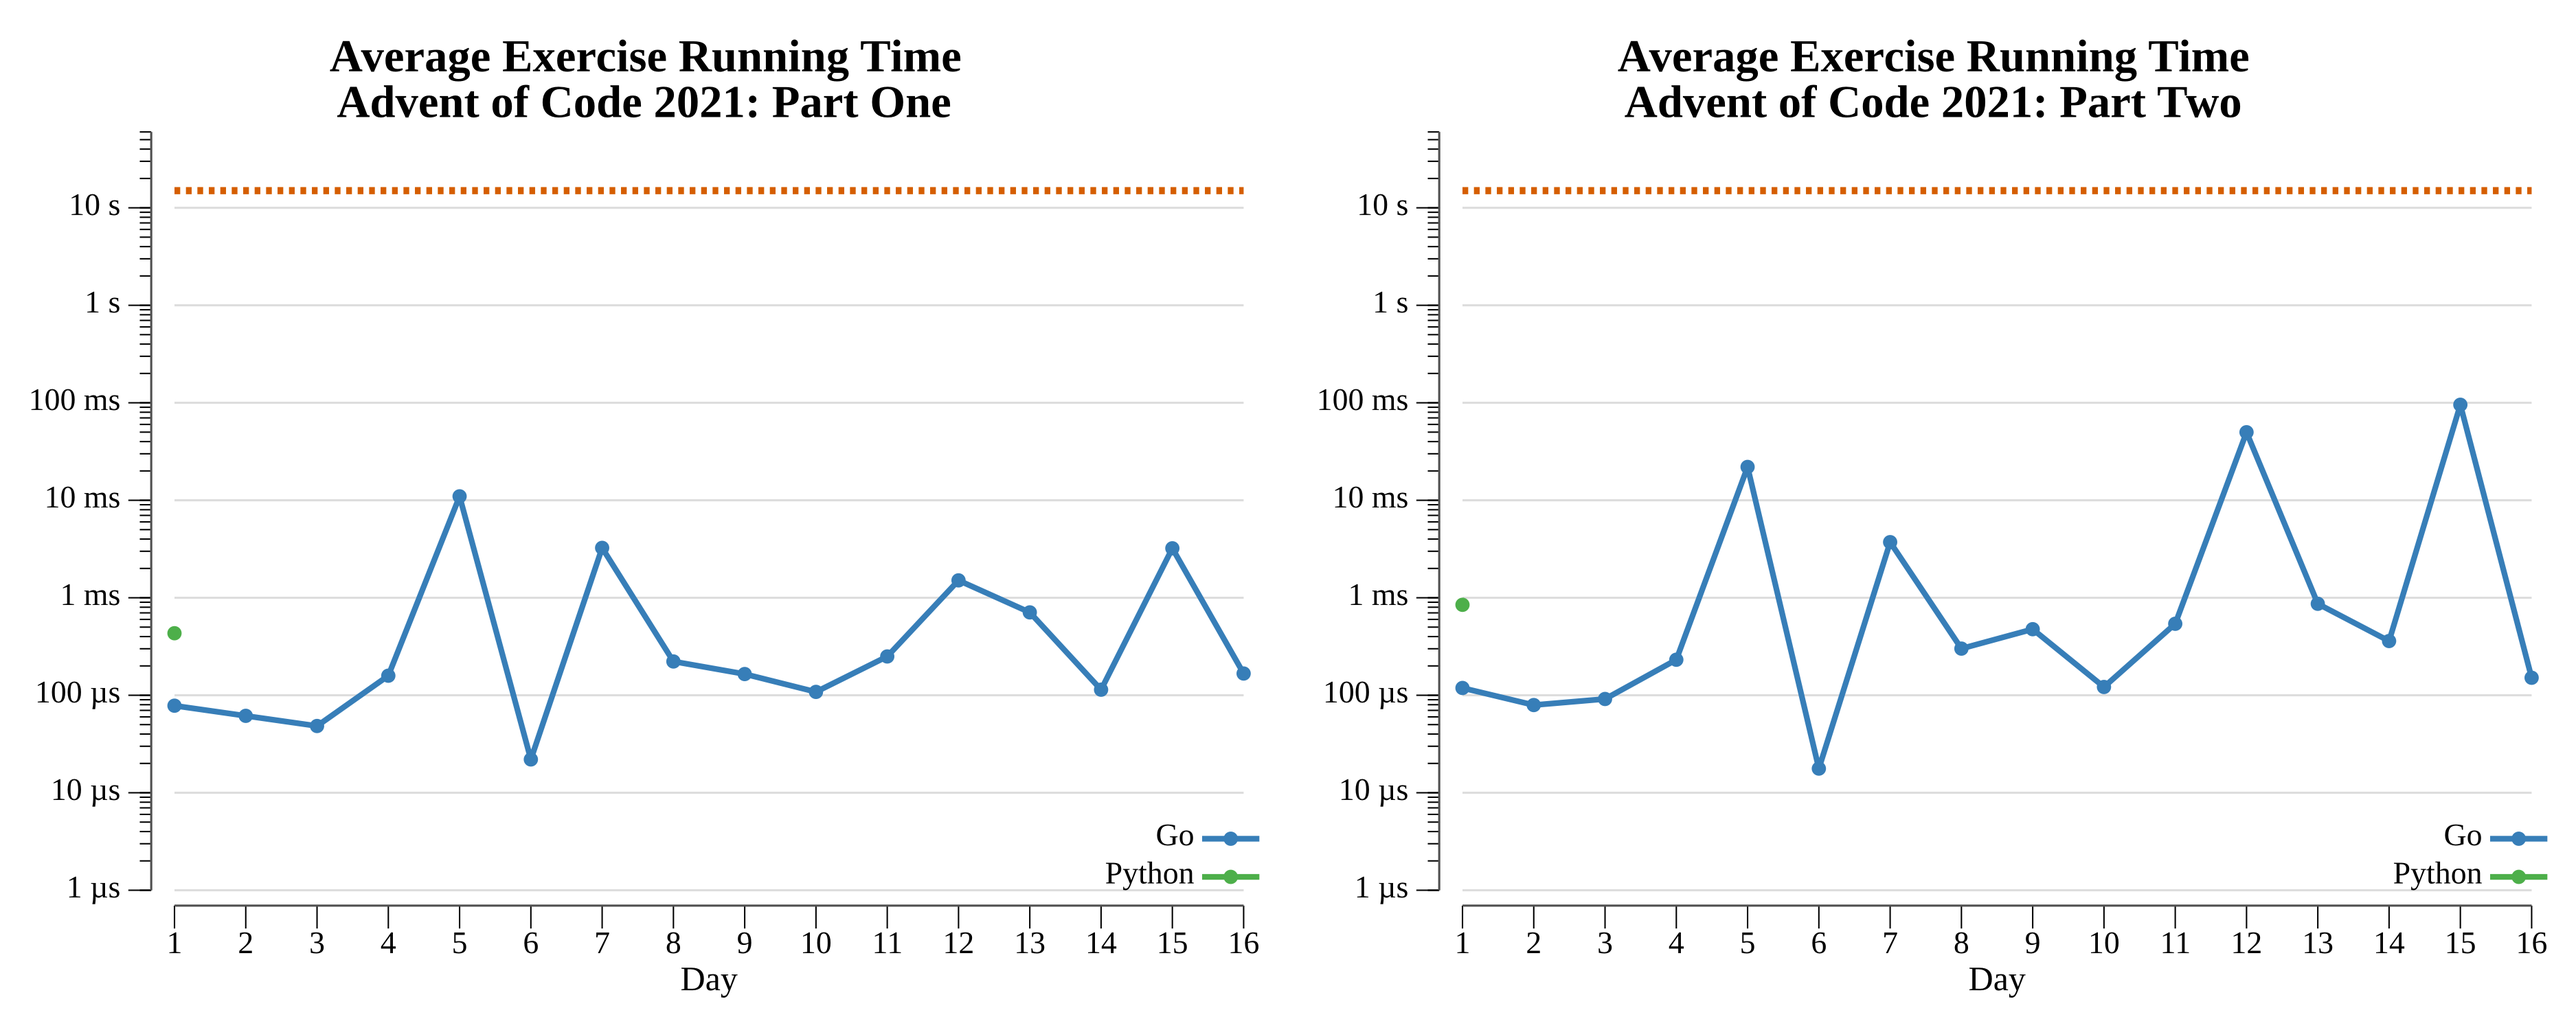
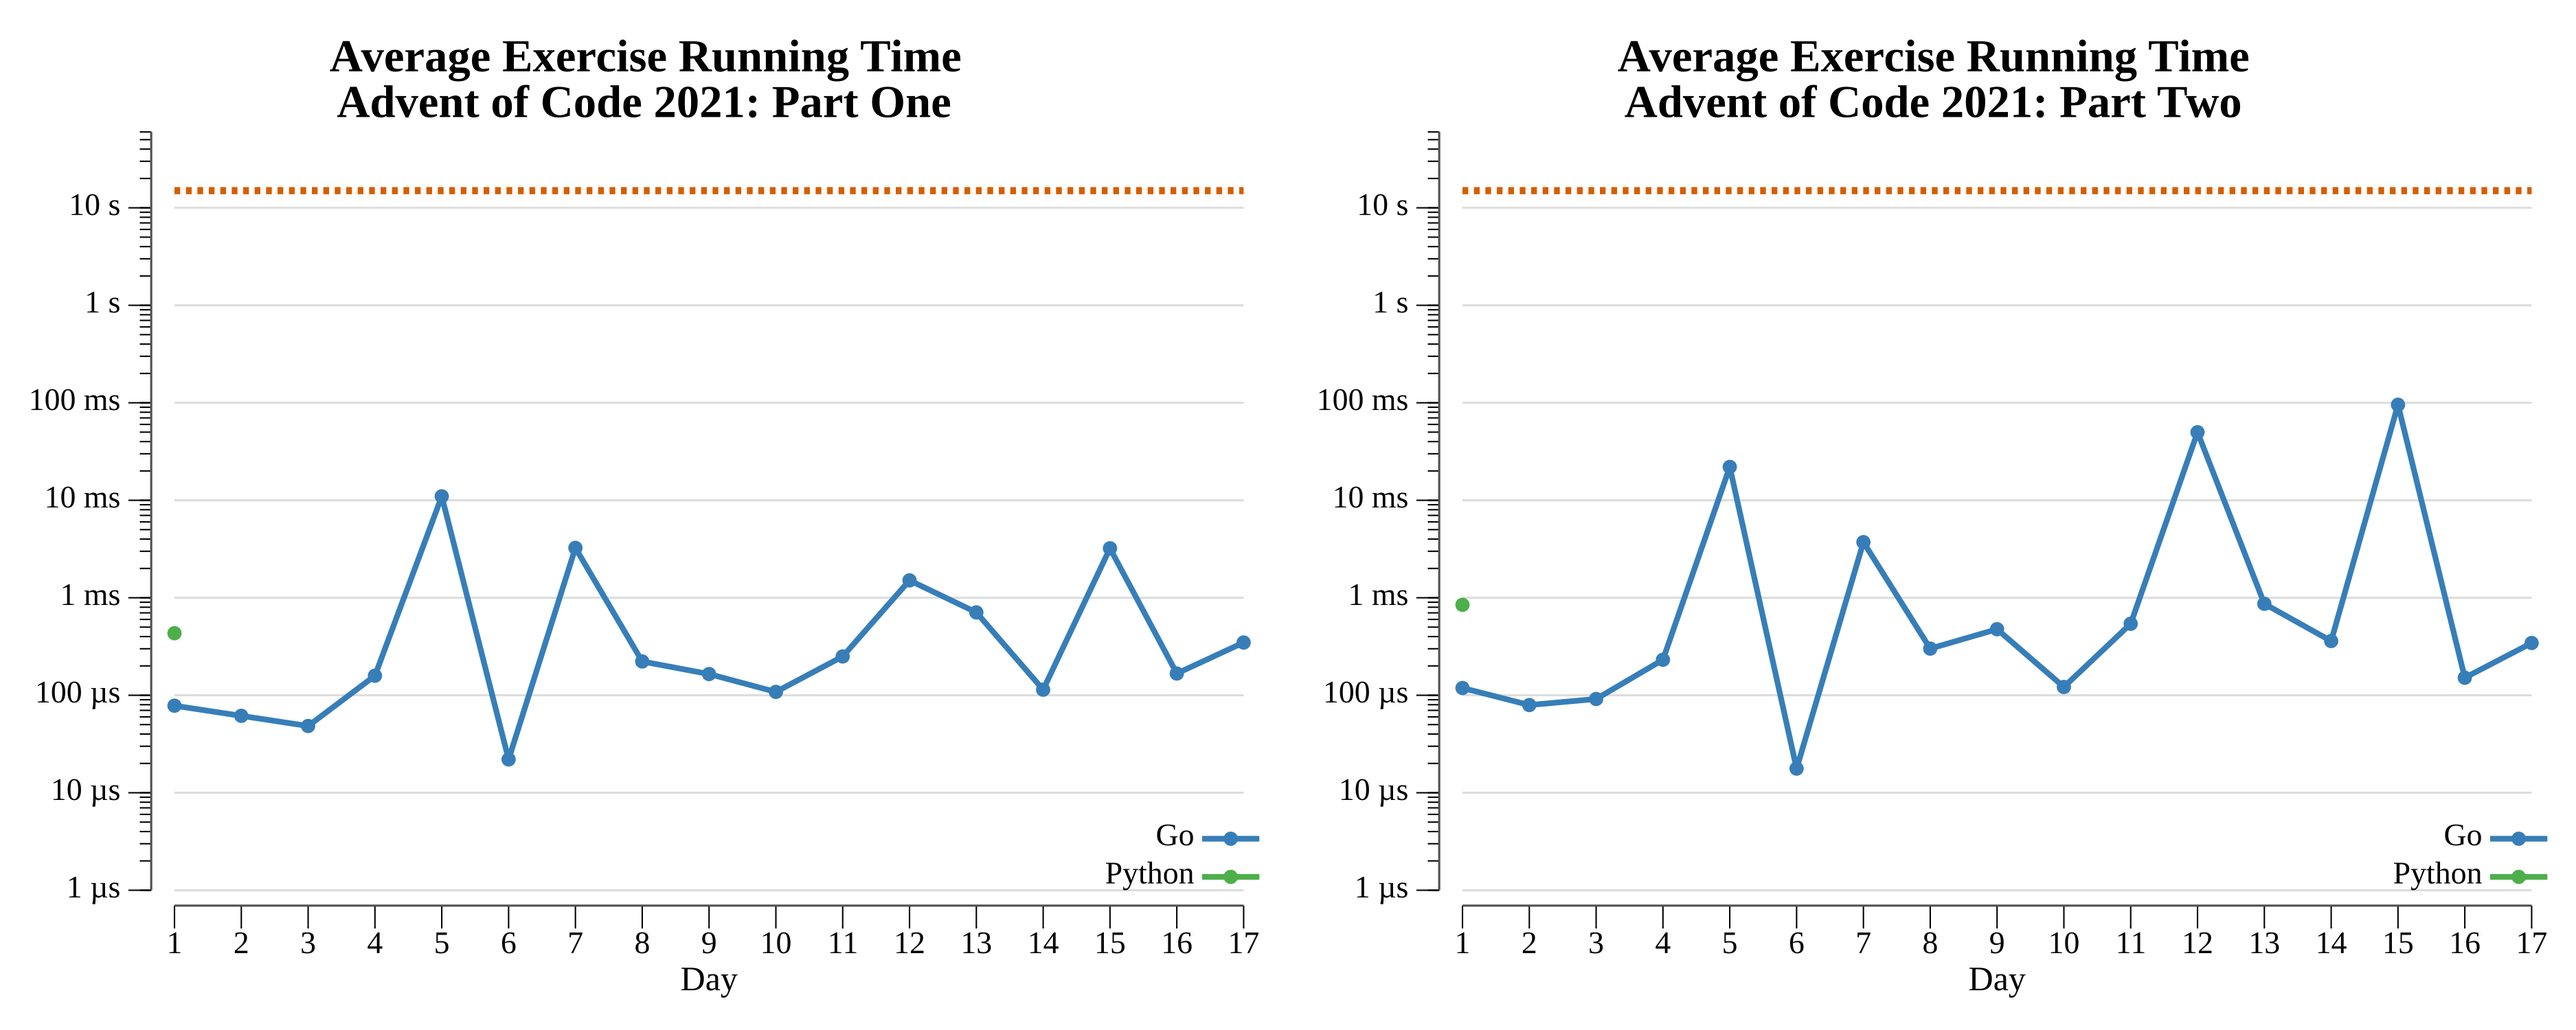
2021 day 17

diff --git a/exercises/2021/17-trickShot/go/vis.go b/exercises/2021/17-trickShot/go/vis.go
@@ -1,0 +1,149 @@
+package exercises
+
+import (
+	"fmt"
+	"os"
+	"path/filepath"
+	"strings"
+)
+
+// Vis plots the probe trajectories as an SVG. Every launch velocity that lands in
+// the target is drawn as a faint arc, so the envelope of all 1566 winning shots
+// (part two) is visible; the single arc reaching the greatest height (part one)
+// is highlighted, and the target area is a labeled box. y is flipped so "up" is
+// up. The highlight and target read by position and brightness, so the plot works
+// in grayscale.
+func (e Exercise) Vis(instr, outdir string) error {
+	t, err := parse(instr)
+	if err != nil {
+		return err
+	}
+
+	type shot struct {
+		path [][2]int
+		peak int
+	}
+	var winners []shot
+	best := shot{peak: -1 << 30}
+
+	for vx := 1; vx <= t.xMax; vx++ {
+		for vy := t.yMin; vy <= -t.yMin; vy++ {
+			path, peak, hit := trace(vx, vy, t)
+			if !hit {
+				continue
+			}
+			s := shot{path, peak}
+			winners = append(winners, s)
+			if peak > best.peak {
+				best = s
+			}
+		}
+	}
+
+	// World bounds: from launch (0,0) out past the target, up to the best peak.
+	minX, maxX := 0, t.xMax
+	minY, maxY := t.yMin, best.peak
+	worldW := float64(maxX - minX)
+	worldH := float64(maxY - minY)
+
+	const (
+		W     = 1000
+		H     = 620
+		mLeft = 50
+		mTop  = 40
+		mBot  = 40
+		mRt   = 20
+	)
+	plotW := float64(W - mLeft - mRt)
+	plotH := float64(H - mTop - mBot)
+	// Independent x/y scales: the peak height dwarfs the target distance, so a
+	// uniform scale would squeeze everything into a sliver. Non-uniform scaling
+	// fills the canvas; the shape of the arcs is still faithful, only stretched.
+	scaleX := plotW / worldW
+	scaleY := plotH / worldH
+	sx := func(x int) float64 { return mLeft + (float64(x)-float64(minX))*scaleX }
+	sy := func(y int) float64 { return mTop + (float64(maxY)-float64(y))*scaleY }
+
+	var sb strings.Builder
+	fmt.Fprintf(&sb, `<svg xmlns="http://www.w3.org/2000/svg" width="%d" height="%d" viewBox="0 0 %d %d" font-family="monospace">`, W, H, W, H)
+	fmt.Fprintf(&sb, `<rect width="%d" height="%d" fill="#111418"/>`, W, H)
+	fmt.Fprintf(&sb, `<text x="%d" y="26" fill="#e8ecf4" font-size="15" text-anchor="middle">Probe trajectories that hit the target (%d of them); highest arc highlighted</text>`, W/2, len(winners))
+
+	// Target box.
+	tx0, ty0 := sx(t.xMin), sy(t.yMax)
+	tw := float64(t.xMax-t.xMin+1) * scaleX
+	th := float64(t.yMax-t.yMin+1) * scaleY
+	fmt.Fprintf(&sb, `<rect x="%.1f" y="%.1f" width="%.1f" height="%.1f" fill="#009E73" fill-opacity="0.25" stroke="#009E73" stroke-width="1.5"/>`, tx0, ty0, tw, th)
+	fmt.Fprintf(&sb, `<text x="%.1f" y="%.1f" fill="#3fe0b0" font-size="12" text-anchor="middle">target</text>`, tx0+tw/2, ty0+th+16)
+
+	// Zero line (launch height) for reference.
+	fmt.Fprintf(&sb, `<line x1="%.1f" y1="%.1f" x2="%d" y2="%.1f" stroke="#2a2f3a" stroke-dasharray="3 3"/>`, sx(minX), sy(0), W-mRt, sy(0))
+
+	// Faint winning arcs.
+	fmt.Fprint(&sb, `<g fill="none" stroke="#56B4E9" stroke-opacity="0.12" stroke-width="1">`)
+	for _, s := range winners {
+		fmt.Fprintf(&sb, `<polyline points="%s"/>`, polyPoints(s.path, sx, sy))
+	}
+	fmt.Fprint(&sb, `</g>`)
+
+	// Highlighted highest arc.
+	fmt.Fprintf(&sb, `<polyline points="%s" fill="none" stroke="#E69F00" stroke-width="2.5"/>`, polyPoints(best.path, sx, sy))
+	// Peak marker.
+	px, py := sx(best.path[peakIndex(best.path)][0]), sy(best.peak)
+	fmt.Fprintf(&sb, `<circle cx="%.1f" cy="%.1f" r="4" fill="#E69F00"/>`, px, py)
+	fmt.Fprintf(&sb, `<text x="%.1f" y="%.1f" fill="#E69F00" font-size="13" text-anchor="middle">peak y = %d</text>`, px, py-10, best.peak)
+
+	// Launch point.
+	fmt.Fprintf(&sb, `<circle cx="%.1f" cy="%.1f" r="4" fill="#D55E00"/>`, sx(0), sy(0))
+	fmt.Fprintf(&sb, `<text x="%.1f" y="%.1f" fill="#D55E00" font-size="12">launch</text>`, sx(0)+8, sy(0)-6)
+
+	sb.WriteString(`</svg>`)
+
+	return os.WriteFile(filepath.Join(outdir, "trick-shot.svg"), []byte(sb.String()), 0o600)
+}
+
+// trace simulates a shot and returns its full path, peak height, and hit status.
+func trace(vx, vy int, t target) (path [][2]int, peak int, hit bool) {
+	x, y := 0, 0
+	path = append(path, [2]int{0, 0})
+	peak = 0
+	for {
+		x += vx
+		y += vy
+		if vx > 0 {
+			vx--
+		} else if vx < 0 {
+			vx++
+		}
+		vy--
+		if y > peak {
+			peak = y
+		}
+		path = append(path, [2]int{x, y})
+
+		if x >= t.xMin && x <= t.xMax && y >= t.yMin && y <= t.yMax {
+			return path, peak, true
+		}
+		if x > t.xMax || y < t.yMin {
+			return path, peak, false
+		}
+	}
+}
+
+func polyPoints(path [][2]int, sx, sy func(int) float64) string {
+	var b strings.Builder
+	for _, p := range path {
+		fmt.Fprintf(&b, "%.1f,%.1f ", sx(p[0]), sy(p[1]))
+	}
+	return strings.TrimSpace(b.String())
+}
+
+func peakIndex(path [][2]int) int {
+	best, bi := path[0][1], 0
+	for i, p := range path {
+		if p[1] > best {
+			best, bi = p[1], i
+		}
+	}
+	return bi
+}

diff --git a/exercises/2021/17-trickShot/go/exercise.go b/exercises/2021/17-trickShot/go/exercise.go
@@ -1,0 +1,99 @@
+package exercises
+
+import (
+	"fmt"
+	"strings"
+
+	"github.com/asphaltbuffet/advent-of-code/internal/common"
+)
+
+// Exercise for Advent of Code 2021 day 17.
+type Exercise struct {
+	common.BaseExercise
+}
+
+type target struct {
+	xMin, xMax, yMin, yMax int
+}
+
+func parse(instr string) (target, error) {
+	var t target
+	_, err := fmt.Sscanf(strings.TrimSpace(instr), "target area: x=%d..%d, y=%d..%d",
+		&t.xMin, &t.xMax, &t.yMin, &t.yMax)
+	if err != nil {
+		return t, fmt.Errorf("parsing target %q: %w", instr, err)
+	}
+	return t, nil
+}
+
+// launch simulates one shot and returns the peak height and whether it hit the
+// target. Drag pulls vx toward zero each step; gravity subtracts one from vy.
+func launch(vx, vy int, t target) (peak int, hit bool) {
+	x, y := 0, 0
+	peak = 0
+	for {
+		x += vx
+		y += vy
+		if vx > 0 {
+			vx--
+		} else if vx < 0 {
+			vx++
+		}
+		vy--
+
+		if y > peak {
+			peak = y
+		}
+
+		if x >= t.xMin && x <= t.xMax && y >= t.yMin && y <= t.yMax {
+			return peak, true
+		}
+
+		// Past the target with no way back: overshot x, or falling below it.
+		if x > t.xMax || y < t.yMin {
+			return peak, false
+		}
+	}
+}
+
+// search sweeps the bounded velocity space and returns the best peak height and
+// the number of velocities that hit. vx ranges 1..xMax (positive targets here);
+// vy ranges yMin..-yMin (above -yMin overshoots below on the way down).
+func search(t target) (bestPeak, hits int) {
+	for vx := 1; vx <= t.xMax; vx++ {
+		for vy := t.yMin; vy <= -t.yMin; vy++ {
+			peak, hit := launch(vx, vy, t)
+			if hit {
+				hits++
+				if peak > bestPeak {
+					bestPeak = peak
+				}
+			}
+		}
+	}
+	return bestPeak, hits
+}
+
+// One returns the answer to the first part of the exercise.
+func (e Exercise) One(instr string) (any, error) {
+	t, err := parse(instr)
+	if err != nil {
+		return nil, err
+	}
+
+	best, _ := search(t)
+
+	return fmt.Sprintf("%d", best), nil
+}
+
+// Two returns the answer to the second part of the exercise.
+func (e Exercise) Two(instr string) (any, error) {
+	t, err := parse(instr)
+	if err != nil {
+		return nil, err
+	}
+
+	_, hits := search(t)
+
+	return fmt.Sprintf("%d", hits), nil
+}

diff --git a/exercises/2021/17-trickShot/README.md b/exercises/2021/17-trickShot/README.md
@@ -1,0 +1,47 @@
+# [Day 17: Trick Shot](https://adventofcode.com/2021/day/17)
+
+<!-- These are helper text to make formatting the yearly readme consistent and easier...
+
+[Day 17: Trick Shot][rm17]
+[Go][go17]
+
+[rm17]: 17-trickShot/README.md
+[go17]: 17-trickShot/go
+
+-->
+
+## Notes
+
+Simulate a bounded set of launch velocities. `vx` runs from 1 to the target's far
+x edge (any faster overshoots on the first step); `vy` runs from the target's
+bottom up to `-yMin` (above that, symmetry means the probe returns to y=0 already
+moving too fast to stay in the target). Each shot is stepped with drag on `vx` and
+gravity on `vy` until it lands or passes the target. Part One reports the highest
+peak among hits; Part Two counts the distinct hitting velocities.
+
+## Go
+
+```text
+────────────────────────────────────────
+─       2021 Day 17: Trick Shot        ─
+────────────────────────────────────────
+
+Solving (Go)…
+1.0:  PASS           365.338µs
+2.0:  PASS           325.244µs
+```
+
+## Visualization
+
+Every launch velocity that lands in the target drawn as a faint arc (SVG), so the
+envelope of all winning shots fans out from the launch point to the target box;
+the single arc reaching the greatest height (Part One) is highlighted and its peak
+labeled. Because the peak height dwarfs the target distance, the axes are scaled
+independently to fill the canvas. The highlight reads by brightness, so it stays
+distinct in grayscale.
+
+![Trick Shot trajectories](trick-shot.svg)
+
+## Run Times
+
+![Day 17 run-time graphs](run-times.png)

diff --git a/exercises/2021/README.md b/exercises/2021/README.md
@@ -22,7 +22,7 @@
 | [Day 14: Extended Polymerization](14-extendedPolymerization/README.md) |  ★ ★  | [Go](14-extendedPolymerization/go)                 |
 | [Day 15: Chiton](15-chiton/README.md)         |  ★ ★  | [Go](15-chiton/go)                                 |
 | [Day 16: Packet Decoder](16-packetDecoder/README.md) |  ★ ★  | [Go](16-packetDecoder/go)                          |
-| 17                                            |  ☆ ☆  |                                                    |
+| [Day 17: Trick Shot](17-trickShot/README.md)  |  ★ ★  | [Go](17-trickShot/go)                              |
 | 18                                            |  ☆ ☆  |                                                    |
 | 19                                            |  ☆ ☆  |                                                    |
 | 20                                            |  ☆ ☆  |                                                    |
